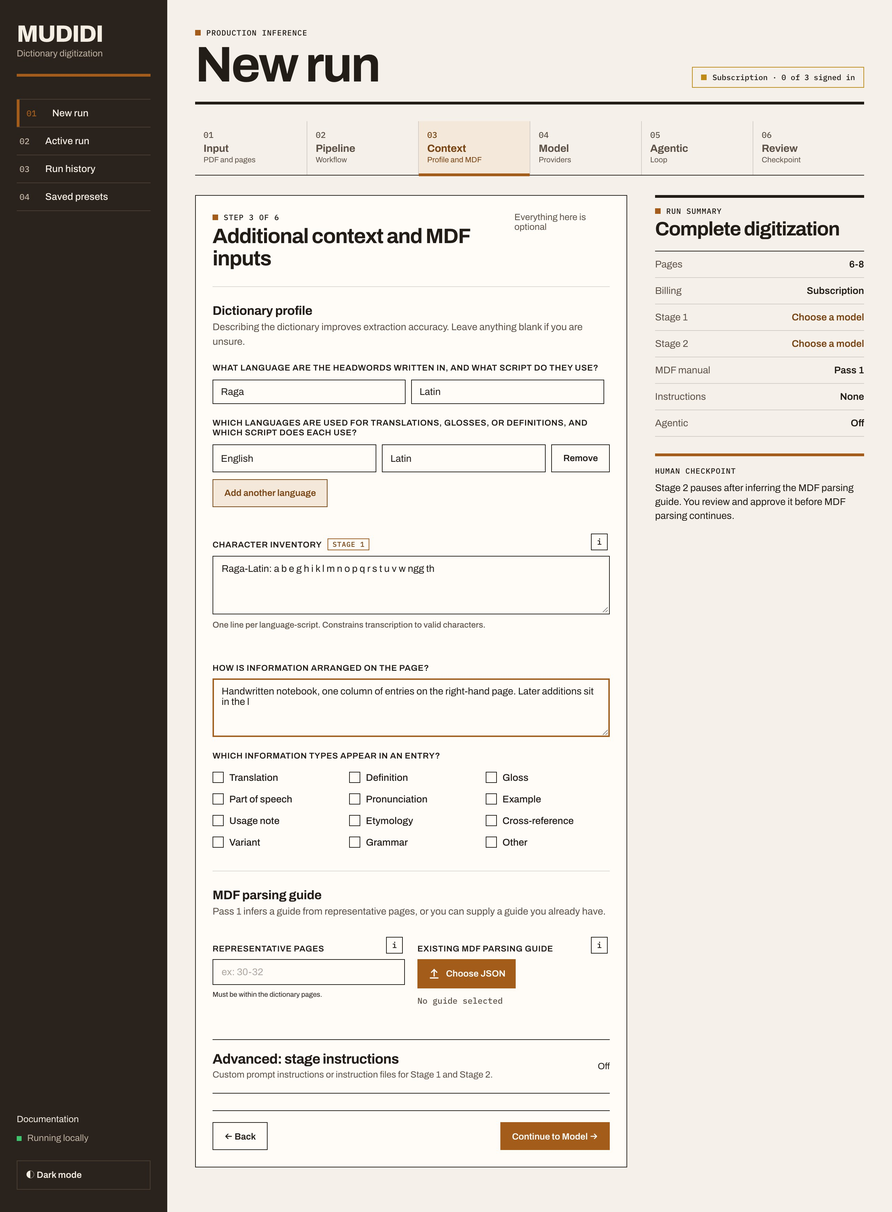
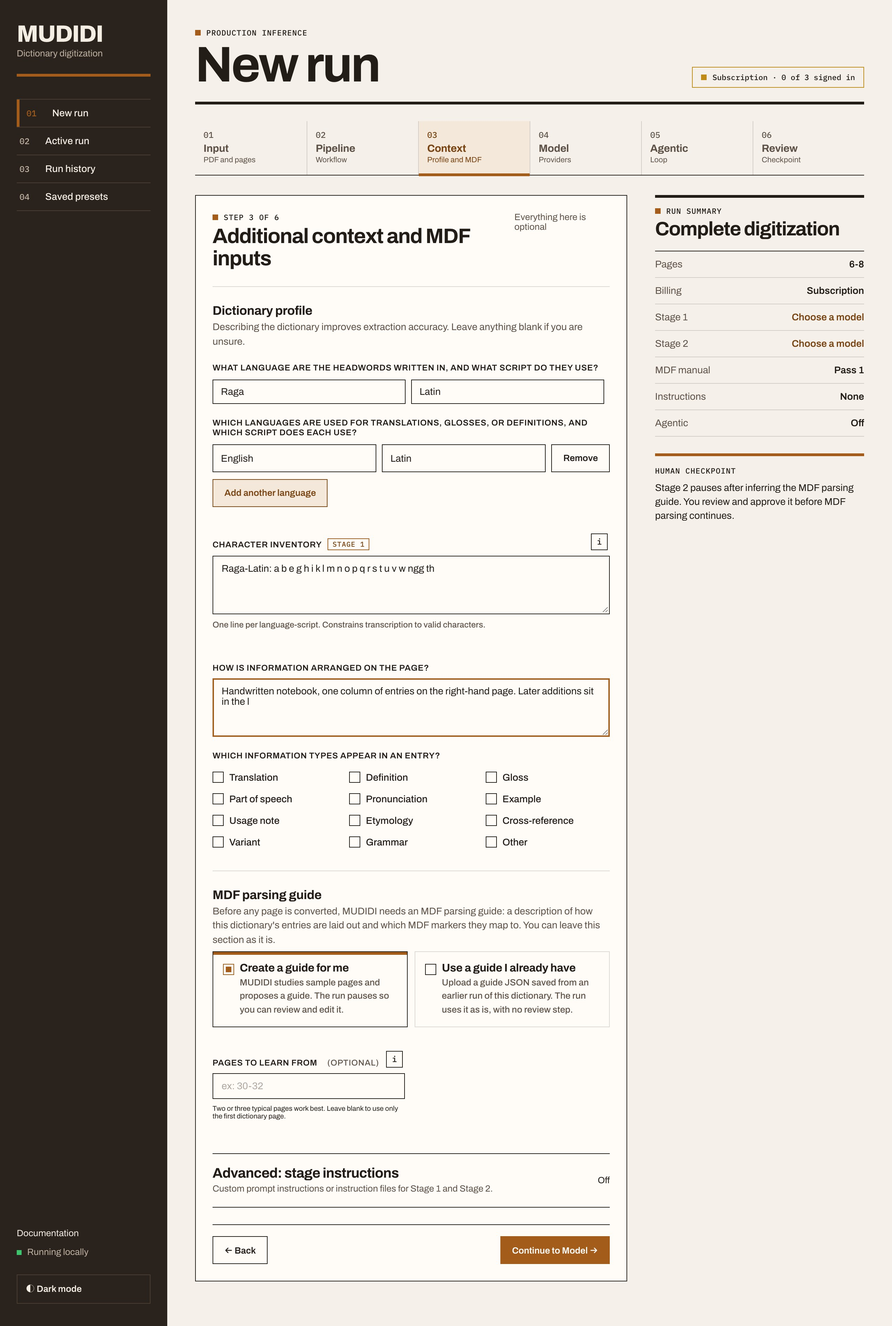
chore(demo): recapture the context step with the new MDF guide section

diff --git a/demo-video/index.html b/demo-video/index.html
@@ -116,7 +116,7 @@
         </div>
       </section>
       <section id="scene-context" class="clip scene" data-start="16.4" data-duration="15.2" data-track-index="1">
-        <div id="stage-context" class="stage" data-layout-allow-overflow style="height: 1740px">
+        <div id="stage-context" class="stage" data-layout-allow-overflow style="height: 1904px">
           <img id="f-cx-0" class="frame" src="assets/cap/cx-0.jpg" alt="" style="opacity: 1" />
           <img id="f-cx-head-1" class="frame" src="assets/cap/cx-head-1.jpg" alt="" style="opacity: 0" />
           <img id="f-cx-head-2" class="frame" src="assets/cap/cx-head-2.jpg" alt="" style="opacity: 0" />
@@ -263,7 +263,7 @@
     </div>
     <script>
       // Everything here replays the schedule computed in capture/build.mjs.
-      const OPS = [{"k":"from","sel":"#scan-sheet","a":{"opacity":0,"y":70,"duration":0.7,"ease":"power3.out"},"t":0.1},{"k":"from","sel":"#scan-eyebrow","a":{"opacity":0,"duration":0.5,"ease":"power2.out"},"t":0.5},{"k":"fromTo","sel":"#scan-line","a":{"y":-10,"opacity":0},"b":{"opacity":1,"duration":0.2},"t":0.9},{"k":"to","sel":"#scan-line","a":{"y":900,"duration":3.6,"ease":"none"},"t":1},{"k":"to","sel":"#scan-line","a":{"opacity":0,"duration":0.3},"t":4.5},{"k":"fromTo","sel":"#scan-box-1","a":{"opacity":0,"scaleX":0.3},"b":{"opacity":1,"scaleX":1,"duration":0.3,"ease":"power3.out"},"t":1.95},{"k":"to","sel":"#scan-link-1","a":{"strokeDashoffset":0,"duration":0.4,"ease":"power2.inOut"},"t":2.05},{"k":"from","sel":"#scan-record-1","a":{"opacity":0,"x":40,"duration":0.35,"ease":"power3.out"},"t":2.25},{"k":"fromTo","sel":"#scan-r1a","a":{"clipPath":"inset(0 100% 0 0)"},"b":{"clipPath":"inset(0 0% 0 0)","duration":0.3,"ease":"steps(10)"},"t":2.4},{"k":"fromTo","sel":"#scan-r1b","a":{"clipPath":"inset(0 100% 0 0)"},"b":{"clipPath":"inset(0 0% 0 0)","duration":0.3,"ease":"steps(10)"},"t":2.62},{"k":"fromTo","sel":"#scan-r1c","a":{"clipPath":"inset(0 100% 0 0)"},"b":{"clipPath":"inset(0 0% 0 0)","duration":0.3,"ease":"steps(10)"},"t":2.84},{"k":"fromTo","sel":"#scan-box-2","a":{"opacity":0,"scaleX":0.3},"b":{"opacity":1,"scaleX":1,"duration":0.3,"ease":"power3.out"},"t":2.7},{"k":"to","sel":"#scan-link-2","a":{"strokeDashoffset":0,"duration":0.4,"ease":"power2.inOut"},"t":2.8000000000000003},{"k":"from","sel":"#scan-record-2","a":{"opacity":0,"x":40,"duration":0.35,"ease":"power3.out"},"t":3},{"k":"fromTo","sel":"#scan-r2a","a":{"clipPath":"inset(0 100% 0 0)"},"b":{"clipPath":"inset(0 0% 0 0)","duration":0.3,"ease":"steps(10)"},"t":3.15},{"k":"fromTo","sel":"#scan-r2b","a":{"clipPath":"inset(0 100% 0 0)"},"b":{"clipPath":"inset(0 0% 0 0)","duration":0.3,"ease":"steps(10)"},"t":3.37},{"k":"fromTo","sel":"#scan-box-3","a":{"opacity":0,"scaleX":0.3},"b":{"opacity":1,"scaleX":1,"duration":0.3,"ease":"power3.out"},"t":4.15},{"k":"to","sel":"#scan-link-3","a":{"strokeDashoffset":0,"duration":0.4,"ease":"power2.inOut"},"t":4.25},{"k":"from","sel":"#scan-record-3","a":{"opacity":0,"x":40,"duration":0.35,"ease":"power3.out"},"t":4.45},{"k":"fromTo","sel":"#scan-r3a","a":{"clipPath":"inset(0 100% 0 0)"},"b":{"clipPath":"inset(0 0% 0 0)","duration":0.3,"ease":"steps(10)"},"t":4.6},{"k":"fromTo","sel":"#scan-r3b","a":{"clipPath":"inset(0 100% 0 0)"},"b":{"clipPath":"inset(0 0% 0 0)","duration":0.3,"ease":"steps(10)"},"t":4.82},{"k":"fromTo","sel":"#scan-r3c","a":{"clipPath":"inset(0 100% 0 0)"},"b":{"clipPath":"inset(0 0% 0 0)","duration":0.3,"ease":"steps(10)"},"t":5.04},{"k":"from","sel":"#scan-title","a":{"opacity":0,"y":40,"duration":0.6,"ease":"power3.out"},"t":5.3},{"k":"to","sel":["#scan-sheet","#scan-links","#scan-copy"],"a":{"opacity":0,"duration":0.3,"ease":"power1.in"},"t":6.85},{"k":"cam","scene":"input","view":{"x":200,"y":240,"w":1080},"d":0,"t":7.2},{"k":"fromTo","sel":"#stage-input","a":{"opacity":0},"b":{"opacity":1,"duration":0.3,"ease":"power1.out"},"t":7.2},{"k":"fromTo","sel":"#chip-body","a":{"x":70,"y":730,"opacity":0,"scale":0.9},"b":{"opacity":1,"scale":1,"duration":0.35,"ease":"power2.out"},"t":7.5},{"k":"cursor","to":[340.625,690],"d":0.7,"rest":true,"t":7.5},{"k":"click","t":8.38},{"k":"to","sel":"#chip-body","a":{"x":513.3333333333334,"y":385.8333333333333,"duration":1.1,"ease":"power2.inOut"},"t":8.67},{"k":"cursor","to":[590,496.40625],"d":1.1,"rest":false,"t":8.67},{"k":"frame","name":"in-drag","t":9.42},{"k":"to","sel":"#chip-body","a":{"opacity":0,"scale":0.7,"duration":0.25,"ease":"power2.in"},"t":10.02},{"k":"click","t":10.2},{"k":"frame","name":"in-file","t":10.34},{"k":"cam","scene":"input","view":{"x":250,"y":330,"w":940},"d":0.7,"t":11.04},{"k":"cursor","to":[443,707.828125],"d":0.8,"rest":false,"t":11.04},{"k":"click","t":12.02},{"k":"frame","name":"in-pages-1","t":12.38},{"k":"frame","name":"in-pages-2","t":12.6},{"k":"frame","name":"in-pages-3","t":12.82},{"k":"cam","scene":"input","view":{"x":200,"y":130,"w":1080},"d":0.7,"t":13.62},{"k":"cursor","to":[680.5,213.609375],"d":0.8,"rest":false,"t":14.32},{"k":"click","t":15.3},{"k":"cam","scene":"context","view":{"x":200,"y":130,"w":1080},"d":0,"t":16.4},{"k":"cam","scene":"context","view":{"x":240,"y":440,"w":960},"d":0.8,"t":16.7},{"k":"cursor","to":[443.5,562.578125],"d":0.6,"rest":false,"t":17.5},{"k":"click","t":18.28},{"k":"frame","name":"cx-head-1","t":18.6},{"k":"frame","name":"cx-head-2","t":18.78},{"k":"cursor","to":[728.5,562.578125],"d":0.4,"rest":false,"t":18.78},{"k":"click","t":19.36},{"k":"frame","name":"cx-hs-1","t":19.5},{"k":"cursor","to":[422.59375,658.078125],"d":0.45,"rest":false,"t":19.5},{"k":"click","t":20.13},{"k":"frame","name":"cx-tl-1","t":20.45},{"k":"frame","name":"cx-tl-2","t":20.63},{"k":"cursor","to":[665.78125,658.078125],"d":0.4,"rest":false,"t":20.63},{"k":"click","t":21.21},{"k":"frame","name":"cx-ts-1","t":21.35},{"k":"cursor","to":[590,840.078125],"d":0.5,"rest":false,"t":21.35},{"k":"click","t":22.03},{"k":"frame","name":"cx-inv-1","t":22.37},{"k":"frame","name":"cx-inv-2","t":22.57},{"k":"frame","name":"cx-inv-3","t":22.77},{"k":"frame","name":"cx-inv-4","t":22.97},{"k":"cam","scene":"context","view":{"x":240,"y":760,"w":960},"d":0.7,"t":23.37},{"k":"cursor","to":[590,1016.078125],"d":0.5,"rest":false,"t":24.07},{"k":"click","t":24.75},{"k":"frame","name":"cx-lay-1","t":25.06},{"k":"frame","name":"cx-lay-2","t":25.23},{"k":"frame","name":"cx-lay-3","t":25.4},{"k":"frame","name":"cx-lay-4","t":25.57},{"k":"frame","name":"cx-lay-5","t":25.74},{"k":"frame","name":"cx-lay-6","t":25.91},{"k":"frame","name":"cx-lay-7","t":26.08},{"k":"frame","name":"cx-lay-8","t":26.25},{"k":"cursor","to":[313,1116.078125],"d":0.45,"rest":false,"t":26.55},{"k":"cursor","to":[313,1209.078125],"d":1.2,"rest":false,"t":27.1},{"k":"frame","name":"cx-type-1","t":27.17},{"k":"frame","name":"cx-type-2","t":27.34},{"k":"frame","name":"cx-type-3","t":27.51},{"k":"frame","name":"cx-type-4","t":27.68},{"k":"frame","name":"cx-type-5","t":27.85},{"k":"frame","name":"cx-type-6","t":28.02},{"k":"frame","name":"cx-type-7","t":28.19},{"k":"cam","scene":"context","view":{"x":240,"y":1230.5625,"w":960},"d":1,"t":28.89},{"k":"cursor","to":[796.3671875,1630.5625],"d":0.7,"rest":false,"t":29.89},{"k":"click","t":30.77},{"k":"cam","scene":"model","view":{"x":240,"y":640,"w":960},"d":0,"t":31.6},{"k":"fromTo","sel":"#stage-model","a":{"opacity":0},"b":{"opacity":1,"duration":0.3,"ease":"power1.out"},"t":31.6},{"k":"cursor","to":[356.484375,897.640625],"d":0.8,"rest":false,"t":32},{"k":"click","t":32.98},{"k":"frame","name":"md-waiting","t":33.12},{"k":"fromTo","sel":"#popup-shade","a":{"opacity":0},"b":{"opacity":1,"duration":0.25,"ease":"power1.out"},"t":33.42},{"k":"fromTo","sel":"#popup-window","a":{"opacity":0,"scale":0.92,"y":30},"b":{"opacity":1,"scale":1,"y":0,"duration":0.35,"ease":"power3.out"},"t":33.42},{"k":"cursor","to":[720,930],"d":0.7,"rest":true,"t":34.02},{"k":"click","t":34.9},{"k":"to","sel":"#popup-choose","a":{"opacity":0,"duration":0.15},"t":35.04},{"k":"to","sel":"#popup-done","a":{"opacity":1,"duration":0.2},"t":35.19},{"k":"fromTo","sel":"#done-mark","a":{"scale":0.4},"b":{"scale":1,"duration":0.4,"ease":"back.out(2)"},"t":35.19},{"k":"frame","name":"md-signed","t":36.39},{"k":"to","sel":"#popup-window","a":{"opacity":0,"scale":0.95,"duration":0.25,"ease":"power2.in"},"t":36.39},{"k":"to","sel":"#popup-shade","a":{"opacity":0,"duration":0.25},"t":36.39},{"k":"cursor","to":[443,1099.640625],"d":0.8,"rest":false,"t":37.39},{"k":"click","t":38.37},{"k":"frame","name":"md-prov1","t":38.51},{"k":"cursor","to":[737,1099.640625],"d":0.6,"rest":false,"t":39.01},{"k":"click","t":39.79},{"k":"frame","name":"md-prov2","t":39.93},{"k":"cam","scene":"model","view":{"x":240,"y":1060,"w":960},"d":0.8,"t":40.53},{"k":"cursor","to":[443,1278.640625],"d":0.75,"rest":false,"t":41.63},{"k":"click","t":42.56},{"k":"frame","name":"md-model1","t":42.7},{"k":"cursor","to":[737,1278.640625],"d":0.75,"rest":false,"t":43.45},{"k":"click","t":44.38},{"k":"frame","name":"md-reason1","t":44.52},{"k":"cursor","to":[443,1457.640625],"d":0.75,"rest":false,"t":45.27},{"k":"click","t":46.2},{"k":"frame","name":"md-model2","t":46.34},{"k":"cursor","to":[737,1457.640625],"d":0.75,"rest":false,"t":47.09},{"k":"click","t":48.02},{"k":"frame","name":"md-reason2","t":48.16},{"k":"cam","scene":"model","view":{"x":240,"y":1200,"w":960},"d":0.6,"t":49.21},{"k":"cursor","to":[791.75,1644.640625],"d":0.7,"rest":false,"t":49.81},{"k":"click","t":50.69},{"k":"cam","scene":"agentic","view":{"x":200,"y":330,"w":1080},"d":0,"t":51.6},{"k":"cursor","to":[631,634.265625],"d":0.8,"rest":false,"t":52},{"k":"click","t":52.98},{"k":"frame","name":"ag-on","t":53.12},{"k":"cam","scene":"agentic","view":{"x":200,"y":862.859375,"w":1080},"d":1.4,"t":54.52},{"k":"cursor","to":[817.5546875,1352.859375],"d":0.7,"rest":false,"t":56.22},{"k":"click","t":57.1},{"k":"cam","scene":"run1","view":{"x":180,"y":230,"w":1100},"d":0,"t":58},{"k":"fromTo","sel":"#stage-run1","a":{"opacity":0},"b":{"opacity":1,"duration":0.3,"ease":"power1.out"},"t":58},{"k":"cursor","to":[760,520],"d":0.6,"rest":true,"t":58},{"k":"frame","name":"ov-s1-1","t":59.5},{"k":"frame","name":"ov-s1-2","t":60.4},{"k":"frame","name":"ov-disc","t":61.3},{"k":"frame","name":"ov-review","t":62.2},{"k":"cursor","to":[476.4609375,686.53125],"d":0.7,"rest":false,"t":62.6},{"k":"click","t":63.48},{"k":"cam","scene":"guide","view":{"x":200,"y":0,"w":1080},"d":0,"t":64.4},{"k":"fromTo","sel":"#stage-guide","a":{"opacity":0},"b":{"opacity":1,"duration":0.3,"ease":"power1.out"},"t":64.4},{"k":"cursor","to":[900,400],"d":0.5,"rest":true,"t":64.4},{"k":"cam","scene":"guide","view":{"x":200,"y":892,"w":1080},"d":2.8,"t":65.2},{"k":"cursor","to":[1118.234375,1463.078125],"d":0.7,"rest":false,"t":68.2},{"k":"click","t":69.08},{"k":"cam","scene":"run2","view":{"x":180,"y":215,"w":1100},"d":0,"t":70},{"k":"fromTo","sel":"#stage-run2","a":{"opacity":0},"b":{"opacity":1,"duration":0.3,"ease":"power1.out"},"t":70},{"k":"cursor","to":[760,560],"d":0.5,"rest":true,"t":70},{"k":"frame","name":"ov-s2-2","t":71},{"k":"frame","name":"ov-done","t":71.8},{"k":"cursor","to":[590.859375,249.03125],"d":0.7,"rest":false,"t":72.4},{"k":"click","t":73.28},{"k":"cam","scene":"pages","view":{"x":240,"y":330,"w":1040},"d":0,"t":74},{"k":"fromTo","sel":"#stage-pages","a":{"opacity":0},"b":{"opacity":1,"duration":0.3,"ease":"power1.out"},"t":74},{"k":"cursor","to":[520,640],"d":0.6,"rest":true,"t":74},{"k":"cam","scene":"pages","view":{"x":240,"y":560,"w":1040},"d":1,"t":75.1},{"k":"cursor","to":[876,960],"d":0.7,"rest":true,"t":76.8},{"k":"click","t":77.68},{"k":"frame","name":"pg-edit-1","t":78.02},{"k":"frame","name":"pg-edit-2","t":78.32},{"k":"cam","scene":"pages","view":{"x":240,"y":700,"w":1040},"d":0.6,"t":79.22},{"k":"cursor","to":[1164.6484375,1190.265625],"d":0.7,"rest":false,"t":79.82},{"k":"click","t":80.7},{"k":"from","sel":"#outro-word","a":{"opacity":0,"y":60,"duration":0.7,"ease":"power3.out"},"t":82.15},{"k":"from","sel":"#outro-rule","a":{"scaleX":0,"duration":0.8,"ease":"power2.inOut"},"t":82.5},{"k":"from","sel":"#outro-line","a":{"opacity":0,"y":24,"duration":0.6,"ease":"power2.out"},"t":82.9},{"k":"from","sel":"#outro-local","a":{"opacity":0,"duration":0.6,"ease":"power2.out"},"t":83.4},{"k":"to","sel":"#outro-copy","a":{"opacity":0,"duration":0.8,"ease":"power1.in"},"t":85.9},{"k":"fromTo","sel":"#caption-text-0","a":{"opacity":0,"y":24},"b":{"opacity":1,"y":0,"duration":0.3,"ease":"power2.out"},"t":7.4},{"k":"to","sel":"#caption-text-0","a":{"opacity":0,"duration":0.2,"ease":"power1.in"},"t":15.14},{"k":"fromTo","sel":"#caption-text-1","a":{"opacity":0,"y":24},"b":{"opacity":1,"y":0,"duration":0.3,"ease":"power2.out"},"t":16.6},{"k":"to","sel":"#caption-text-1","a":{"opacity":0,"duration":0.2,"ease":"power1.in"},"t":28.69},{"k":"fromTo","sel":"#caption-text-2","a":{"opacity":0,"y":24},"b":{"opacity":1,"y":0,"duration":0.3,"ease":"power2.out"},"t":31.8},{"k":"to","sel":"#caption-text-2","a":{"opacity":0,"duration":0.2,"ease":"power1.in"},"t":37.19},{"k":"fromTo","sel":"#caption-text-3","a":{"opacity":0,"y":24},"b":{"opacity":1,"y":0,"duration":0.3,"ease":"power2.out"},"t":40.63},{"k":"to","sel":"#caption-text-3","a":{"opacity":0,"duration":0.2,"ease":"power1.in"},"t":49.01},{"k":"fromTo","sel":"#caption-text-4","a":{"opacity":0,"y":24},"b":{"opacity":1,"y":0,"duration":0.3,"ease":"power2.out"},"t":51.9},{"k":"to","sel":"#caption-text-4","a":{"opacity":0,"duration":0.2,"ease":"power1.in"},"t":55.72},{"k":"fromTo","sel":"#caption-text-5","a":{"opacity":0,"y":24},"b":{"opacity":1,"y":0,"duration":0.3,"ease":"power2.out"},"t":58.2},{"k":"to","sel":"#caption-text-5","a":{"opacity":0,"duration":0.2,"ease":"power1.in"},"t":63.42},{"k":"fromTo","sel":"#caption-text-6","a":{"opacity":0,"y":24},"b":{"opacity":1,"y":0,"duration":0.3,"ease":"power2.out"},"t":64.6},{"k":"to","sel":"#caption-text-6","a":{"opacity":0,"duration":0.2,"ease":"power1.in"},"t":67.8},{"k":"fromTo","sel":"#caption-text-7","a":{"opacity":0,"y":24},"b":{"opacity":1,"y":0,"duration":0.3,"ease":"power2.out"},"t":70.2},{"k":"to","sel":"#caption-text-7","a":{"opacity":0,"duration":0.2,"ease":"power1.in"},"t":72.2},{"k":"fromTo","sel":"#caption-text-8","a":{"opacity":0,"y":24},"b":{"opacity":1,"y":0,"duration":0.3,"ease":"power2.out"},"t":74.2},{"k":"to","sel":"#caption-text-8","a":{"opacity":0,"duration":0.2,"ease":"power1.in"},"t":79.02}];
+      const OPS = [{"k":"from","sel":"#scan-sheet","a":{"opacity":0,"y":70,"duration":0.7,"ease":"power3.out"},"t":0.1},{"k":"from","sel":"#scan-eyebrow","a":{"opacity":0,"duration":0.5,"ease":"power2.out"},"t":0.5},{"k":"fromTo","sel":"#scan-line","a":{"y":-10,"opacity":0},"b":{"opacity":1,"duration":0.2},"t":0.9},{"k":"to","sel":"#scan-line","a":{"y":900,"duration":3.6,"ease":"none"},"t":1},{"k":"to","sel":"#scan-line","a":{"opacity":0,"duration":0.3},"t":4.5},{"k":"fromTo","sel":"#scan-box-1","a":{"opacity":0,"scaleX":0.3},"b":{"opacity":1,"scaleX":1,"duration":0.3,"ease":"power3.out"},"t":1.95},{"k":"to","sel":"#scan-link-1","a":{"strokeDashoffset":0,"duration":0.4,"ease":"power2.inOut"},"t":2.05},{"k":"from","sel":"#scan-record-1","a":{"opacity":0,"x":40,"duration":0.35,"ease":"power3.out"},"t":2.25},{"k":"fromTo","sel":"#scan-r1a","a":{"clipPath":"inset(0 100% 0 0)"},"b":{"clipPath":"inset(0 0% 0 0)","duration":0.3,"ease":"steps(10)"},"t":2.4},{"k":"fromTo","sel":"#scan-r1b","a":{"clipPath":"inset(0 100% 0 0)"},"b":{"clipPath":"inset(0 0% 0 0)","duration":0.3,"ease":"steps(10)"},"t":2.62},{"k":"fromTo","sel":"#scan-r1c","a":{"clipPath":"inset(0 100% 0 0)"},"b":{"clipPath":"inset(0 0% 0 0)","duration":0.3,"ease":"steps(10)"},"t":2.84},{"k":"fromTo","sel":"#scan-box-2","a":{"opacity":0,"scaleX":0.3},"b":{"opacity":1,"scaleX":1,"duration":0.3,"ease":"power3.out"},"t":2.7},{"k":"to","sel":"#scan-link-2","a":{"strokeDashoffset":0,"duration":0.4,"ease":"power2.inOut"},"t":2.8000000000000003},{"k":"from","sel":"#scan-record-2","a":{"opacity":0,"x":40,"duration":0.35,"ease":"power3.out"},"t":3},{"k":"fromTo","sel":"#scan-r2a","a":{"clipPath":"inset(0 100% 0 0)"},"b":{"clipPath":"inset(0 0% 0 0)","duration":0.3,"ease":"steps(10)"},"t":3.15},{"k":"fromTo","sel":"#scan-r2b","a":{"clipPath":"inset(0 100% 0 0)"},"b":{"clipPath":"inset(0 0% 0 0)","duration":0.3,"ease":"steps(10)"},"t":3.37},{"k":"fromTo","sel":"#scan-box-3","a":{"opacity":0,"scaleX":0.3},"b":{"opacity":1,"scaleX":1,"duration":0.3,"ease":"power3.out"},"t":4.15},{"k":"to","sel":"#scan-link-3","a":{"strokeDashoffset":0,"duration":0.4,"ease":"power2.inOut"},"t":4.25},{"k":"from","sel":"#scan-record-3","a":{"opacity":0,"x":40,"duration":0.35,"ease":"power3.out"},"t":4.45},{"k":"fromTo","sel":"#scan-r3a","a":{"clipPath":"inset(0 100% 0 0)"},"b":{"clipPath":"inset(0 0% 0 0)","duration":0.3,"ease":"steps(10)"},"t":4.6},{"k":"fromTo","sel":"#scan-r3b","a":{"clipPath":"inset(0 100% 0 0)"},"b":{"clipPath":"inset(0 0% 0 0)","duration":0.3,"ease":"steps(10)"},"t":4.82},{"k":"fromTo","sel":"#scan-r3c","a":{"clipPath":"inset(0 100% 0 0)"},"b":{"clipPath":"inset(0 0% 0 0)","duration":0.3,"ease":"steps(10)"},"t":5.04},{"k":"from","sel":"#scan-title","a":{"opacity":0,"y":40,"duration":0.6,"ease":"power3.out"},"t":5.3},{"k":"to","sel":["#scan-sheet","#scan-links","#scan-copy"],"a":{"opacity":0,"duration":0.3,"ease":"power1.in"},"t":6.85},{"k":"cam","scene":"input","view":{"x":200,"y":240,"w":1080},"d":0,"t":7.2},{"k":"fromTo","sel":"#stage-input","a":{"opacity":0},"b":{"opacity":1,"duration":0.3,"ease":"power1.out"},"t":7.2},{"k":"fromTo","sel":"#chip-body","a":{"x":70,"y":730,"opacity":0,"scale":0.9},"b":{"opacity":1,"scale":1,"duration":0.35,"ease":"power2.out"},"t":7.5},{"k":"cursor","to":[340.625,690],"d":0.7,"rest":true,"t":7.5},{"k":"click","t":8.38},{"k":"to","sel":"#chip-body","a":{"x":513.3333333333334,"y":385.8333333333333,"duration":1.1,"ease":"power2.inOut"},"t":8.67},{"k":"cursor","to":[590,496.40625],"d":1.1,"rest":false,"t":8.67},{"k":"frame","name":"in-drag","t":9.42},{"k":"to","sel":"#chip-body","a":{"opacity":0,"scale":0.7,"duration":0.25,"ease":"power2.in"},"t":10.02},{"k":"click","t":10.2},{"k":"frame","name":"in-file","t":10.34},{"k":"cam","scene":"input","view":{"x":250,"y":330,"w":940},"d":0.7,"t":11.04},{"k":"cursor","to":[443,707.828125],"d":0.8,"rest":false,"t":11.04},{"k":"click","t":12.02},{"k":"frame","name":"in-pages-1","t":12.38},{"k":"frame","name":"in-pages-2","t":12.6},{"k":"frame","name":"in-pages-3","t":12.82},{"k":"cam","scene":"input","view":{"x":200,"y":130,"w":1080},"d":0.7,"t":13.62},{"k":"cursor","to":[680.5,213.609375],"d":0.8,"rest":false,"t":14.32},{"k":"click","t":15.3},{"k":"cam","scene":"context","view":{"x":200,"y":130,"w":1080},"d":0,"t":16.4},{"k":"cam","scene":"context","view":{"x":240,"y":440,"w":960},"d":0.8,"t":16.7},{"k":"cursor","to":[443.5,562.578125],"d":0.6,"rest":false,"t":17.5},{"k":"click","t":18.28},{"k":"frame","name":"cx-head-1","t":18.6},{"k":"frame","name":"cx-head-2","t":18.78},{"k":"cursor","to":[728.5,562.578125],"d":0.4,"rest":false,"t":18.78},{"k":"click","t":19.36},{"k":"frame","name":"cx-hs-1","t":19.5},{"k":"cursor","to":[422.59375,658.078125],"d":0.45,"rest":false,"t":19.5},{"k":"click","t":20.13},{"k":"frame","name":"cx-tl-1","t":20.45},{"k":"frame","name":"cx-tl-2","t":20.63},{"k":"cursor","to":[665.78125,658.078125],"d":0.4,"rest":false,"t":20.63},{"k":"click","t":21.21},{"k":"frame","name":"cx-ts-1","t":21.35},{"k":"cursor","to":[590,840.078125],"d":0.5,"rest":false,"t":21.35},{"k":"click","t":22.03},{"k":"frame","name":"cx-inv-1","t":22.37},{"k":"frame","name":"cx-inv-2","t":22.57},{"k":"frame","name":"cx-inv-3","t":22.77},{"k":"frame","name":"cx-inv-4","t":22.97},{"k":"cam","scene":"context","view":{"x":240,"y":760,"w":960},"d":0.7,"t":23.37},{"k":"cursor","to":[590,1016.078125],"d":0.5,"rest":false,"t":24.07},{"k":"click","t":24.75},{"k":"frame","name":"cx-lay-1","t":25.06},{"k":"frame","name":"cx-lay-2","t":25.23},{"k":"frame","name":"cx-lay-3","t":25.4},{"k":"frame","name":"cx-lay-4","t":25.57},{"k":"frame","name":"cx-lay-5","t":25.74},{"k":"frame","name":"cx-lay-6","t":25.91},{"k":"frame","name":"cx-lay-7","t":26.08},{"k":"frame","name":"cx-lay-8","t":26.25},{"k":"cursor","to":[313,1116.078125],"d":0.45,"rest":false,"t":26.55},{"k":"cursor","to":[313,1209.078125],"d":1.2,"rest":false,"t":27.1},{"k":"frame","name":"cx-type-1","t":27.17},{"k":"frame","name":"cx-type-2","t":27.34},{"k":"frame","name":"cx-type-3","t":27.51},{"k":"frame","name":"cx-type-4","t":27.68},{"k":"frame","name":"cx-type-5","t":27.85},{"k":"frame","name":"cx-type-6","t":28.02},{"k":"frame","name":"cx-type-7","t":28.19},{"k":"cam","scene":"context","view":{"x":240,"y":1394.65625,"w":960},"d":1,"t":28.89},{"k":"cursor","to":[796.3671875,1794.65625],"d":0.7,"rest":false,"t":29.89},{"k":"click","t":30.77},{"k":"cam","scene":"model","view":{"x":240,"y":640,"w":960},"d":0,"t":31.6},{"k":"fromTo","sel":"#stage-model","a":{"opacity":0},"b":{"opacity":1,"duration":0.3,"ease":"power1.out"},"t":31.6},{"k":"cursor","to":[356.484375,897.640625],"d":0.8,"rest":false,"t":32},{"k":"click","t":32.98},{"k":"frame","name":"md-waiting","t":33.12},{"k":"fromTo","sel":"#popup-shade","a":{"opacity":0},"b":{"opacity":1,"duration":0.25,"ease":"power1.out"},"t":33.42},{"k":"fromTo","sel":"#popup-window","a":{"opacity":0,"scale":0.92,"y":30},"b":{"opacity":1,"scale":1,"y":0,"duration":0.35,"ease":"power3.out"},"t":33.42},{"k":"cursor","to":[720,930],"d":0.7,"rest":true,"t":34.02},{"k":"click","t":34.9},{"k":"to","sel":"#popup-choose","a":{"opacity":0,"duration":0.15},"t":35.04},{"k":"to","sel":"#popup-done","a":{"opacity":1,"duration":0.2},"t":35.19},{"k":"fromTo","sel":"#done-mark","a":{"scale":0.4},"b":{"scale":1,"duration":0.4,"ease":"back.out(2)"},"t":35.19},{"k":"frame","name":"md-signed","t":36.39},{"k":"to","sel":"#popup-window","a":{"opacity":0,"scale":0.95,"duration":0.25,"ease":"power2.in"},"t":36.39},{"k":"to","sel":"#popup-shade","a":{"opacity":0,"duration":0.25},"t":36.39},{"k":"cursor","to":[443,1099.640625],"d":0.8,"rest":false,"t":37.39},{"k":"click","t":38.37},{"k":"frame","name":"md-prov1","t":38.51},{"k":"cursor","to":[737,1099.640625],"d":0.6,"rest":false,"t":39.01},{"k":"click","t":39.79},{"k":"frame","name":"md-prov2","t":39.93},{"k":"cam","scene":"model","view":{"x":240,"y":1060,"w":960},"d":0.8,"t":40.53},{"k":"cursor","to":[443,1278.640625],"d":0.75,"rest":false,"t":41.63},{"k":"click","t":42.56},{"k":"frame","name":"md-model1","t":42.7},{"k":"cursor","to":[737,1278.640625],"d":0.75,"rest":false,"t":43.45},{"k":"click","t":44.38},{"k":"frame","name":"md-reason1","t":44.52},{"k":"cursor","to":[443,1457.640625],"d":0.75,"rest":false,"t":45.27},{"k":"click","t":46.2},{"k":"frame","name":"md-model2","t":46.34},{"k":"cursor","to":[737,1457.640625],"d":0.75,"rest":false,"t":47.09},{"k":"click","t":48.02},{"k":"frame","name":"md-reason2","t":48.16},{"k":"cam","scene":"model","view":{"x":240,"y":1200,"w":960},"d":0.6,"t":49.21},{"k":"cursor","to":[791.75,1644.640625],"d":0.7,"rest":false,"t":49.81},{"k":"click","t":50.69},{"k":"cam","scene":"agentic","view":{"x":200,"y":330,"w":1080},"d":0,"t":51.6},{"k":"cursor","to":[631,634.265625],"d":0.8,"rest":false,"t":52},{"k":"click","t":52.98},{"k":"frame","name":"ag-on","t":53.12},{"k":"cam","scene":"agentic","view":{"x":200,"y":862.859375,"w":1080},"d":1.4,"t":54.52},{"k":"cursor","to":[817.5546875,1352.859375],"d":0.7,"rest":false,"t":56.22},{"k":"click","t":57.1},{"k":"cam","scene":"run1","view":{"x":180,"y":230,"w":1100},"d":0,"t":58},{"k":"fromTo","sel":"#stage-run1","a":{"opacity":0},"b":{"opacity":1,"duration":0.3,"ease":"power1.out"},"t":58},{"k":"cursor","to":[760,520],"d":0.6,"rest":true,"t":58},{"k":"frame","name":"ov-s1-1","t":59.5},{"k":"frame","name":"ov-s1-2","t":60.4},{"k":"frame","name":"ov-disc","t":61.3},{"k":"frame","name":"ov-review","t":62.2},{"k":"cursor","to":[476.4609375,686.53125],"d":0.7,"rest":false,"t":62.6},{"k":"click","t":63.48},{"k":"cam","scene":"guide","view":{"x":200,"y":0,"w":1080},"d":0,"t":64.4},{"k":"fromTo","sel":"#stage-guide","a":{"opacity":0},"b":{"opacity":1,"duration":0.3,"ease":"power1.out"},"t":64.4},{"k":"cursor","to":[900,400],"d":0.5,"rest":true,"t":64.4},{"k":"cam","scene":"guide","view":{"x":200,"y":892,"w":1080},"d":2.8,"t":65.2},{"k":"cursor","to":[1118.234375,1463.078125],"d":0.7,"rest":false,"t":68.2},{"k":"click","t":69.08},{"k":"cam","scene":"run2","view":{"x":180,"y":215,"w":1100},"d":0,"t":70},{"k":"fromTo","sel":"#stage-run2","a":{"opacity":0},"b":{"opacity":1,"duration":0.3,"ease":"power1.out"},"t":70},{"k":"cursor","to":[760,560],"d":0.5,"rest":true,"t":70},{"k":"frame","name":"ov-s2-2","t":71},{"k":"frame","name":"ov-done","t":71.8},{"k":"cursor","to":[590.859375,249.03125],"d":0.7,"rest":false,"t":72.4},{"k":"click","t":73.28},{"k":"cam","scene":"pages","view":{"x":240,"y":330,"w":1040},"d":0,"t":74},{"k":"fromTo","sel":"#stage-pages","a":{"opacity":0},"b":{"opacity":1,"duration":0.3,"ease":"power1.out"},"t":74},{"k":"cursor","to":[520,640],"d":0.6,"rest":true,"t":74},{"k":"cam","scene":"pages","view":{"x":240,"y":560,"w":1040},"d":1,"t":75.1},{"k":"cursor","to":[876,960],"d":0.7,"rest":true,"t":76.8},{"k":"click","t":77.68},{"k":"frame","name":"pg-edit-1","t":78.02},{"k":"frame","name":"pg-edit-2","t":78.32},{"k":"cam","scene":"pages","view":{"x":240,"y":700,"w":1040},"d":0.6,"t":79.22},{"k":"cursor","to":[1164.6484375,1190.265625],"d":0.7,"rest":false,"t":79.82},{"k":"click","t":80.7},{"k":"from","sel":"#outro-word","a":{"opacity":0,"y":60,"duration":0.7,"ease":"power3.out"},"t":82.15},{"k":"from","sel":"#outro-rule","a":{"scaleX":0,"duration":0.8,"ease":"power2.inOut"},"t":82.5},{"k":"from","sel":"#outro-line","a":{"opacity":0,"y":24,"duration":0.6,"ease":"power2.out"},"t":82.9},{"k":"from","sel":"#outro-local","a":{"opacity":0,"duration":0.6,"ease":"power2.out"},"t":83.4},{"k":"to","sel":"#outro-copy","a":{"opacity":0,"duration":0.8,"ease":"power1.in"},"t":85.9},{"k":"fromTo","sel":"#caption-text-0","a":{"opacity":0,"y":24},"b":{"opacity":1,"y":0,"duration":0.3,"ease":"power2.out"},"t":7.4},{"k":"to","sel":"#caption-text-0","a":{"opacity":0,"duration":0.2,"ease":"power1.in"},"t":15.14},{"k":"fromTo","sel":"#caption-text-1","a":{"opacity":0,"y":24},"b":{"opacity":1,"y":0,"duration":0.3,"ease":"power2.out"},"t":16.6},{"k":"to","sel":"#caption-text-1","a":{"opacity":0,"duration":0.2,"ease":"power1.in"},"t":28.69},{"k":"fromTo","sel":"#caption-text-2","a":{"opacity":0,"y":24},"b":{"opacity":1,"y":0,"duration":0.3,"ease":"power2.out"},"t":31.8},{"k":"to","sel":"#caption-text-2","a":{"opacity":0,"duration":0.2,"ease":"power1.in"},"t":37.19},{"k":"fromTo","sel":"#caption-text-3","a":{"opacity":0,"y":24},"b":{"opacity":1,"y":0,"duration":0.3,"ease":"power2.out"},"t":40.63},{"k":"to","sel":"#caption-text-3","a":{"opacity":0,"duration":0.2,"ease":"power1.in"},"t":49.01},{"k":"fromTo","sel":"#caption-text-4","a":{"opacity":0,"y":24},"b":{"opacity":1,"y":0,"duration":0.3,"ease":"power2.out"},"t":51.9},{"k":"to","sel":"#caption-text-4","a":{"opacity":0,"duration":0.2,"ease":"power1.in"},"t":55.72},{"k":"fromTo","sel":"#caption-text-5","a":{"opacity":0,"y":24},"b":{"opacity":1,"y":0,"duration":0.3,"ease":"power2.out"},"t":58.2},{"k":"to","sel":"#caption-text-5","a":{"opacity":0,"duration":0.2,"ease":"power1.in"},"t":63.42},{"k":"fromTo","sel":"#caption-text-6","a":{"opacity":0,"y":24},"b":{"opacity":1,"y":0,"duration":0.3,"ease":"power2.out"},"t":64.6},{"k":"to","sel":"#caption-text-6","a":{"opacity":0,"duration":0.2,"ease":"power1.in"},"t":67.8},{"k":"fromTo","sel":"#caption-text-7","a":{"opacity":0,"y":24},"b":{"opacity":1,"y":0,"duration":0.3,"ease":"power2.out"},"t":70.2},{"k":"to","sel":"#caption-text-7","a":{"opacity":0,"duration":0.2,"ease":"power1.in"},"t":72.2},{"k":"fromTo","sel":"#caption-text-8","a":{"opacity":0,"y":24},"b":{"opacity":1,"y":0,"duration":0.3,"ease":"power2.out"},"t":74.2},{"k":"to","sel":"#caption-text-8","a":{"opacity":0,"duration":0.2,"ease":"power1.in"},"t":79.02}];
       const tl = gsap.timeline({ paused: true });
       const W = 1920;
       const camEvents = [];
